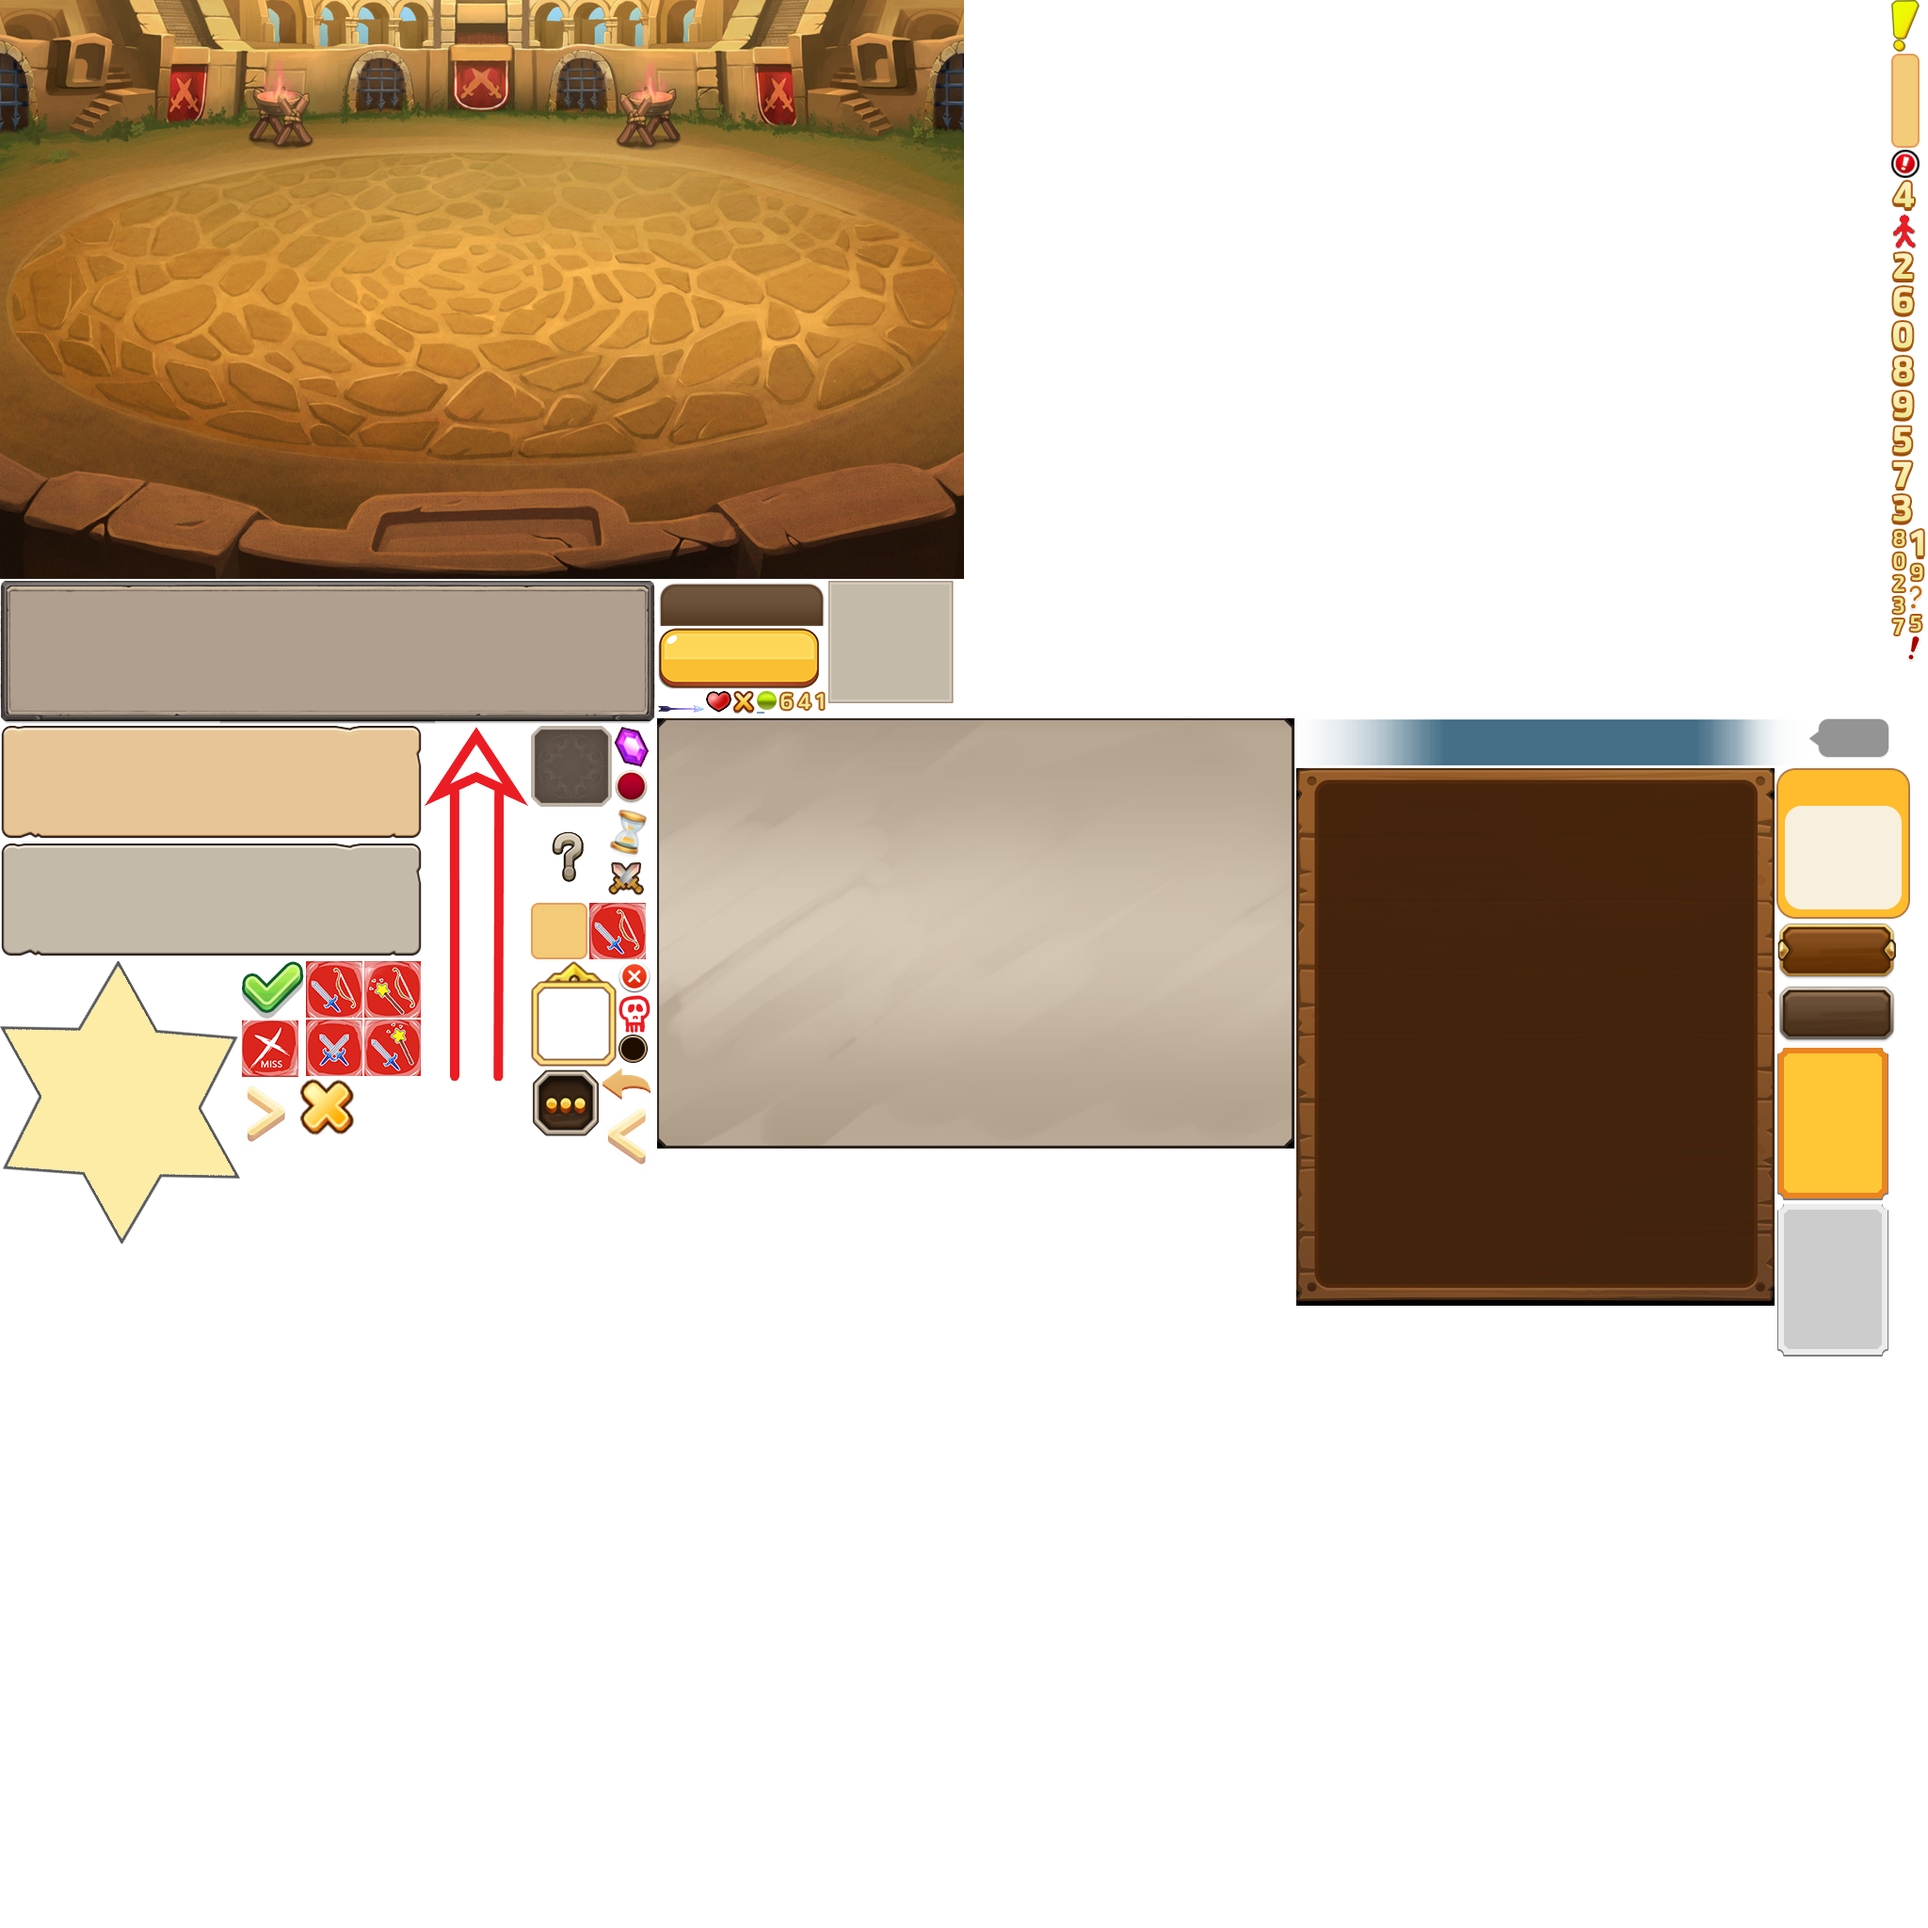
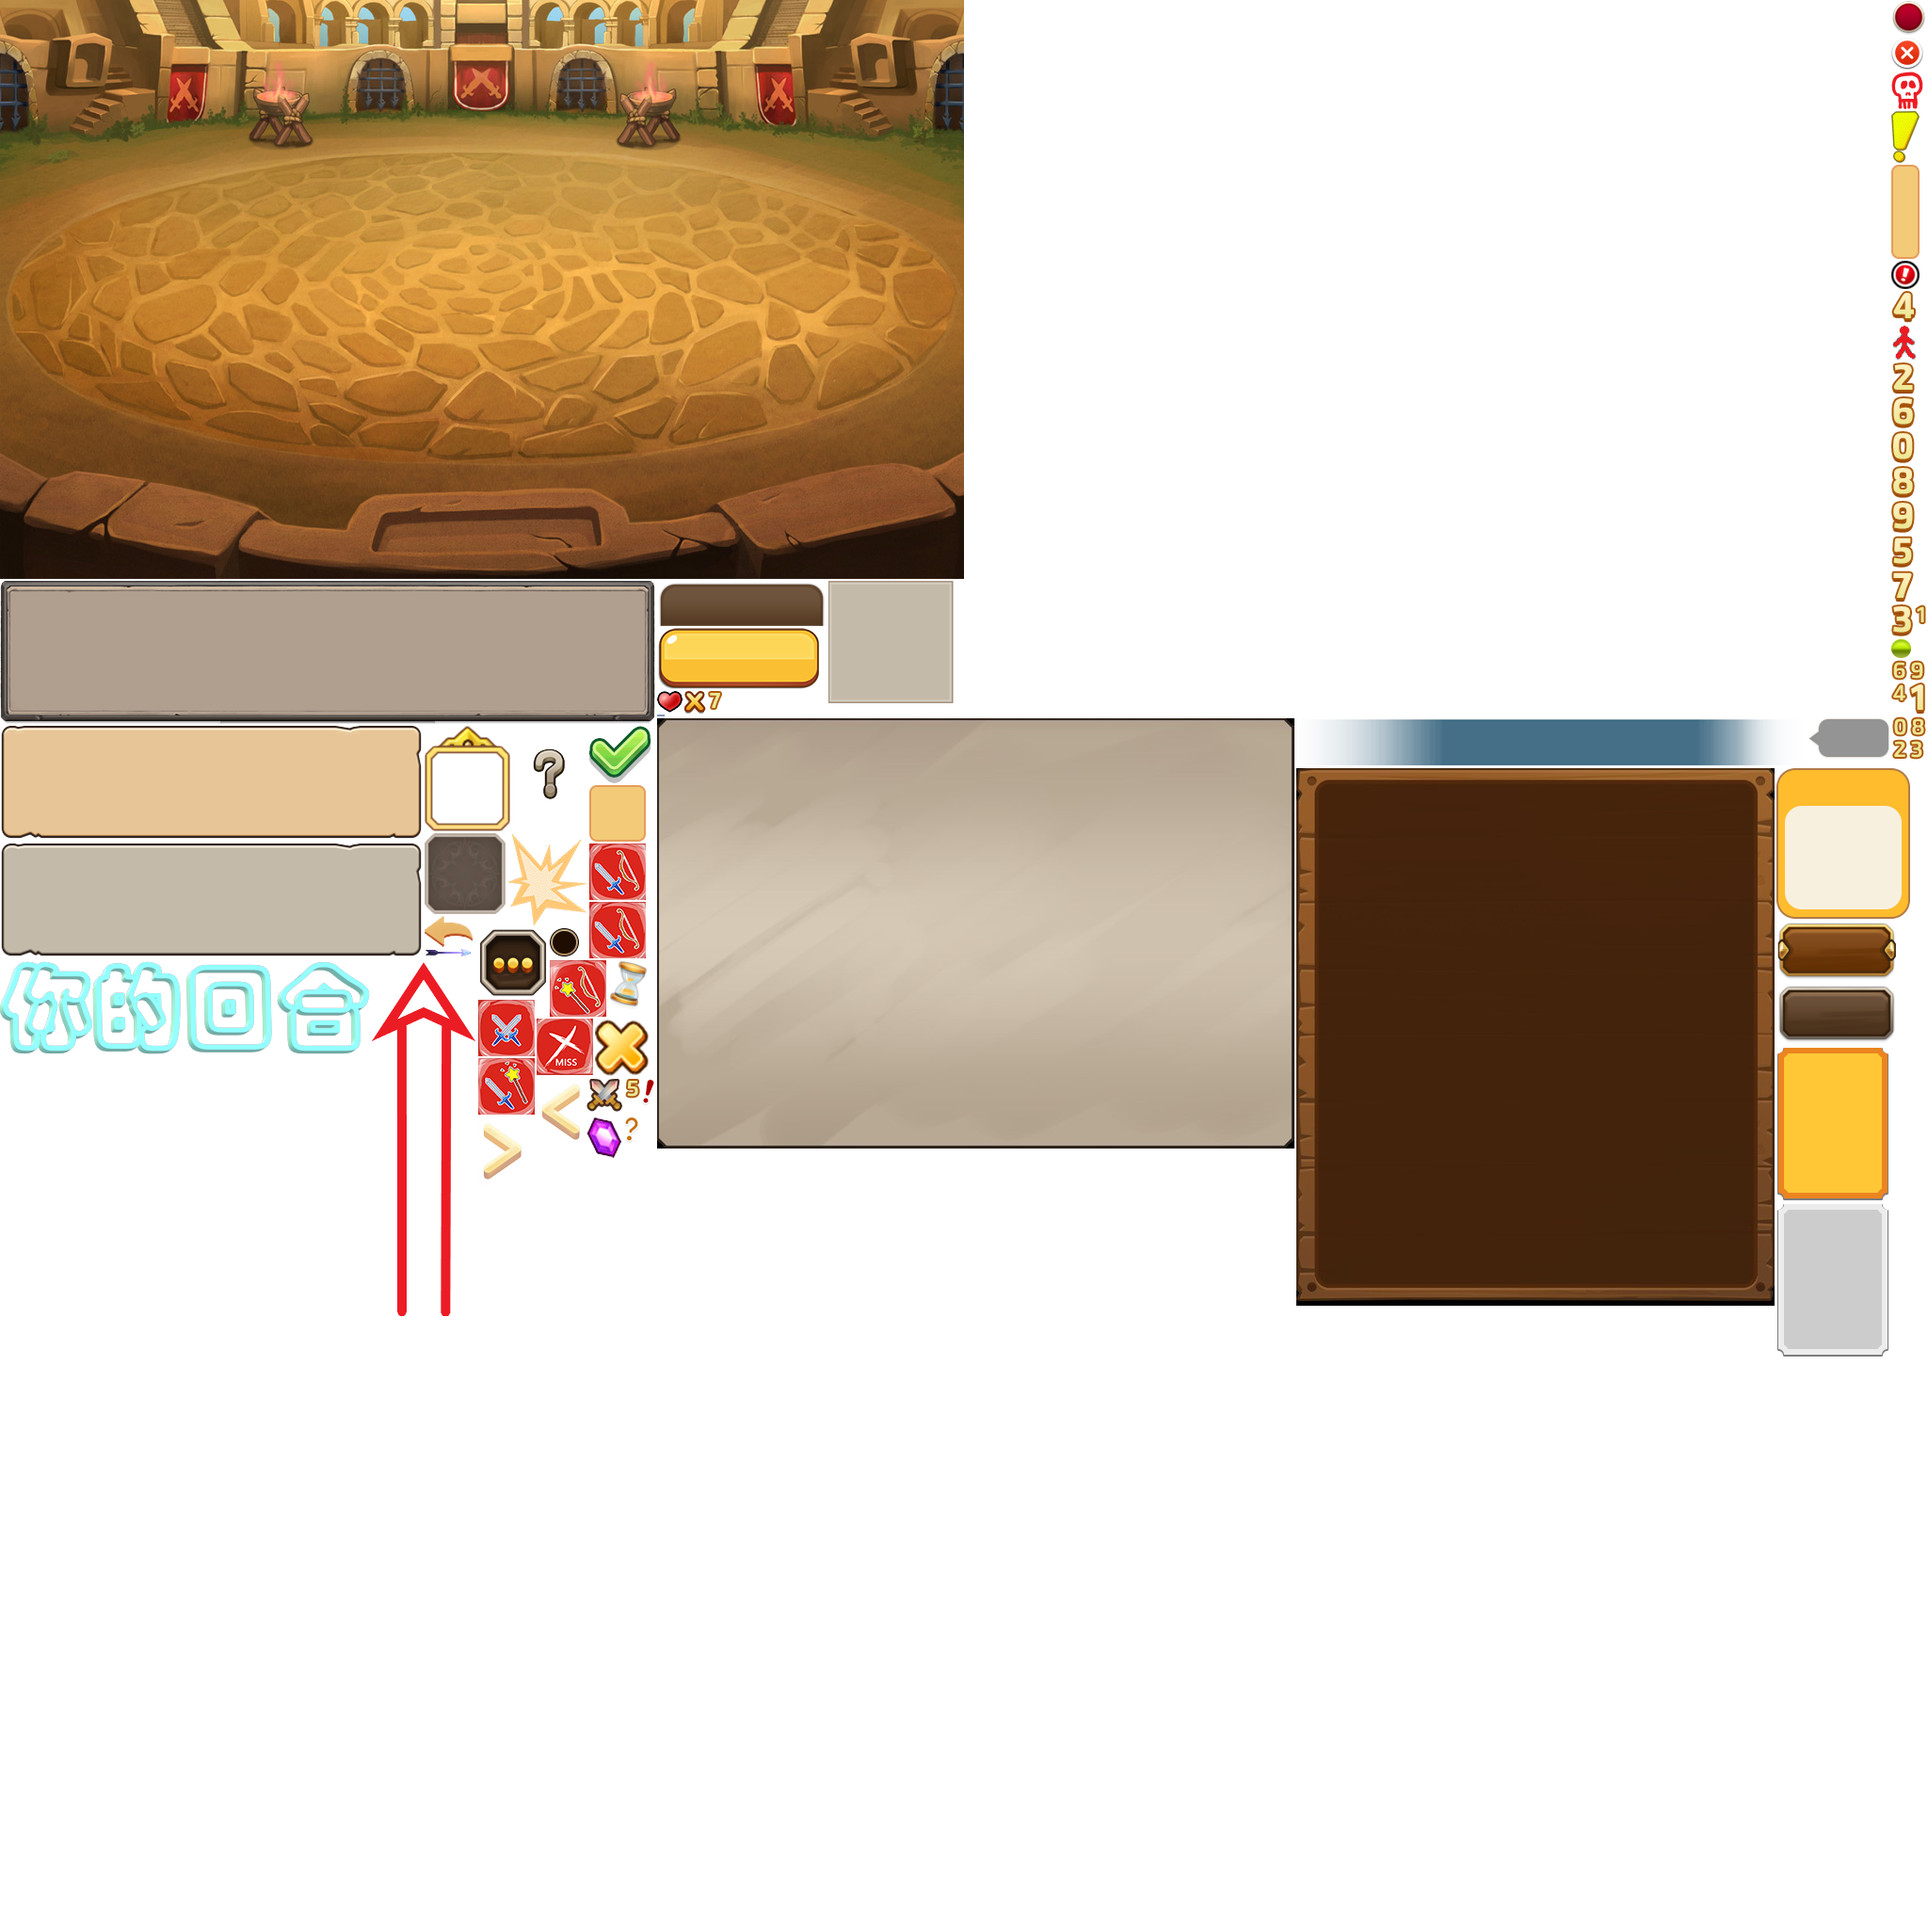
优化效果

Changed region(s): [[0.0, 0.375, 0.3438, 0.6875], [0.9688, 0.0, 1.0, 0.4062], [0.3438, 0.3438, 0.4375, 0.375]]

diff --git a/client/client/src/view/game/map/MapView.ts b/client/client/src/view/game/map/MapView.ts
@@ -508,7 +508,12 @@ class MapView extends BaseView<BaseUI.UIMapView> {
 
     /**单位头上飘提示 */
     public entityShowTips(entity: BaseUI.UIMapUnit | BaseUI.UIMapBuilding, text: string, color: number = 0xFF0000) {
-        let tips = new fairygui.GTextField();
+        //减号开始的是伤害
+        if (text.startsWith('-')) {
+            this.showEntityDamageTips(entity, text);
+            return;
+        }
+        const tips = new fairygui.GTextField();
         tips.fontSize = 26;
         tips.color = color;
         tips.bold = true;
@@ -519,6 +524,22 @@ class MapView extends BaseView<BaseUI.UIMapView> {
         fairygui.GRoot.inst.addChild(tips)
         egret.Tween.get(tips).to({ y: tips.y - entity.height }, 2500).call(() => {
             fairygui.GRoot.inst.removeChild(tips)
+        })
+    }
+
+    /**伤害提示 */
+    public showEntityDamageTips(entity: BaseUI.UIMapUnit | BaseUI.UIMapBuilding, text: string) {
+        const atkTips = BaseUI.UIDamageTips.createInstance();
+        atkTips.setPivot(0.5, 0.5, true);
+        atkTips.damageDetail.text = text;
+        atkTips.scaleX = 0.2;
+        atkTips.scaleY = 0.2;
+        const point = entity.localToRoot((entity.width) / 2, (entity.height) / 2);
+        atkTips.x = point.x;
+        atkTips.y = point.y;
+        fairygui.GRoot.inst.addChild(atkTips);
+        egret.Tween.get(atkTips).to({ scaleX: 0.7, scaleY: 0.7 }, 400, egret.Ease.quintOut).to({}, 1000).call(() => {
+            fairygui.GRoot.inst.removeChild(atkTips)
         })
     }
 

diff --git a/client/client/src/view/game/GameSceneView.ts b/client/client/src/view/game/GameSceneView.ts
@@ -26,6 +26,9 @@ class GameSceneView extends BaseView<BaseUI.UIGameSceneCom> {
 
         this.view.close.describe.text = 'tempCloseBtn';
         this.view.surrender.describe.text = '投降';
+
+        this.view.roundStartImg.scaleX = 0.5;
+        this.view.roundStartImg.scaleY = 0.5;
     }
 
     public open(): void {
@@ -80,6 +83,16 @@ class GameSceneView extends BaseView<BaseUI.UIGameSceneCom> {
         if (msg.uid === UserModel.ins().uid) {
             TipsView.ins().showTips('轮到你的回合了!')
             this._allowToOprate = true;
+
+            SoundMgr.ins().playSoundEffect('round_start', 0, 1);
+            //回合开始动画
+            egret.Tween.get(this.view.roundStartImg).to({ x: (this.view.width - this.view.roundStartImg.width / 2) * this.view.roundStartImg.scaleX }, 500, egret.Ease.quintInOut).
+                to({}, 1000).call(() => {
+                    SoundMgr.ins().playSoundEffect('round_start1', 0, 1);
+                }).
+                to({ x: this.view.width }, 500, egret.Ease.quintInOut).call(() => {
+                    this.view.roundStartImg.x = - this.view.roundStartImg.width * this.view.roundStartImg.scaleX;
+                });
         }
     }
 

diff --git a/client/client/src/core/sound/SoundMgr.ts b/client/client/src/core/sound/SoundMgr.ts
@@ -1,3 +1,4 @@
+const SoundEffectRoot = './resource/sound/'
 class SoundMgr extends BaseClass {
 
     public winSound: Sound;
@@ -7,8 +8,18 @@ class SoundMgr extends BaseClass {
     constructor() {
         super();
 
-        this.winSound = new Sound("./resource/sound/battle_win.mp3");
-        this.lostSound = new Sound("./resource/sound/battle_lose.mp3");
-        this.clickSound = new Sound("./resource/sound/click.mp3");
+        this.winSound = new Sound(`${SoundEffectRoot}battle_win.mp3`);
+        this.lostSound = new Sound(`${SoundEffectRoot}battle_lose.mp3`);
+        this.clickSound = new Sound(`${SoundEffectRoot}click.mp3`);
+    }
+
+
+    public playSoundEffect(soundName: string, startTime?: number, loops?: number) {
+        const sound = new egret.Sound();
+        //添加加载完成侦听
+        sound.addEventListener(egret.Event.COMPLETE, () => {
+            sound.play(startTime, loops);
+        }, this);
+        sound.load(`${SoundEffectRoot}${soundName}.mp3`);
     }
 }

diff --git a/client/client/src/fgui/BaseUI/UIGameSceneCom.ts b/client/client/src/fgui/BaseUI/UIGameSceneCom.ts
@@ -15,6 +15,7 @@ module BaseUI {
 		public targetLeftInfoBox:UILeftInfoBox;
 		public surrender:UIButton3;
 		public record:UIActionRecordCom;
+		public roundStartImg:fairygui.GImage;
 		public static URL:string = "ui://yaux2xpojig14";
 
 		public static createInstance():UIGameSceneCom {
@@ -36,6 +37,7 @@ module BaseUI {
 			this.targetLeftInfoBox = <UILeftInfoBox>(this.getChildAt(9));
 			this.surrender = <UIButton3>(this.getChildAt(10));
 			this.record = <UIActionRecordCom>(this.getChildAt(11));
+			this.roundStartImg = <fairygui.GImage>(this.getChildAt(12));
 		}
 	}
 }
